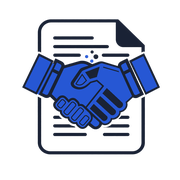
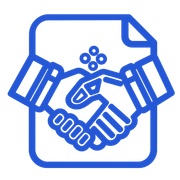
Refine cobalt robotic handshake mark

diff --git a/src/components/site-header.tsx b/src/components/site-header.tsx
@@ -30,7 +30,7 @@ export function SiteHeader() {
         </nav>
       </div>
       <style jsx>{`
-        .site-header{height:72px;display:flex;align-items:center;border-bottom:1px solid rgba(223,228,236,.75);background:rgba(255,255,255,.92);backdrop-filter:blur(14px);position:sticky;top:0;z-index:20}.header-inner{display:flex;align-items:center;justify-content:space-between;min-width:0}nav{display:flex;align-items:center;gap:23px;min-width:0}nav :global(a:not(.button-primary)){color:#4b566b;text-decoration:none;font-size:14px;font-weight:600}nav :global(a:not(.button-primary):hover){color:var(--ink)}.user-menu{position:relative}.user-menu summary{min-height:44px;list-style:none;display:flex;align-items:center;gap:8px;cursor:pointer}.user-menu summary::-webkit-details-marker{display:none}.user-menu summary>span{width:36px;height:36px;display:grid;place-items:center;color:#fff;background:#53627d;border-radius:50%;font-size:13px;font-weight:750}.user-menu summary div{max-width:150px;display:grid;line-height:1.2}.user-menu summary b{color:#394459;font-size:13px}.user-menu summary small{overflow:hidden;color:#6f798c;font-size:11px;text-overflow:ellipsis}.menu-popover{width:240px;position:absolute;right:0;top:49px;padding:7px;display:grid;border:1px solid #dbe1e9;border-radius:10px;background:#fff;box-shadow:var(--shadow-md)}.menu-popover :global(a),.menu-popover button{min-height:44px;padding:9px 10px;display:flex;align-items:center;gap:8px;border:0;border-radius:6px;color:#4d596e;background:transparent;text-decoration:none;font-size:13px;font-weight:650;cursor:pointer}.menu-popover :global(a:hover),.menu-popover button:hover{background:#f4f6f9;color:var(--ink)}.menu-popover form{border-top:1px solid #edf0f4;margin-top:4px;padding-top:4px}.menu-popover button{width:100%}@media(max-width:760px){nav :global(a:not(.button-primary)){display:none}nav{gap:9px}nav :global(.button-primary){display:none}.user-menu summary div{display:none}}
+        .site-header{height:120px;display:flex;align-items:center;border-bottom:1px solid rgba(223,228,236,.75);background:rgba(255,255,255,.92);backdrop-filter:blur(14px);position:sticky;top:0;z-index:20}.header-inner{display:flex;align-items:center;justify-content:space-between;min-width:0}.brand{align-items:center}nav{display:flex;align-items:center;gap:23px;min-width:0}nav :global(a:not(.button-primary)){color:#4b566b;text-decoration:none;font-size:14px;font-weight:600}nav :global(a:not(.button-primary):hover){color:var(--ink)}.user-menu{position:relative}.user-menu summary{min-height:44px;list-style:none;display:flex;align-items:center;gap:8px;cursor:pointer}.user-menu summary::-webkit-details-marker{display:none}.user-menu summary>span{width:36px;height:36px;display:grid;place-items:center;color:#fff;background:#53627d;border-radius:50%;font-size:13px;font-weight:750}.user-menu summary div{max-width:150px;display:grid;line-height:1.2}.user-menu summary b{color:#394459;font-size:13px}.user-menu summary small{overflow:hidden;color:#6f798c;font-size:11px;text-overflow:ellipsis}.menu-popover{width:240px;position:absolute;right:0;top:49px;padding:7px;display:grid;border:1px solid #dbe1e9;border-radius:10px;background:#fff;box-shadow:var(--shadow-md)}.menu-popover :global(a),.menu-popover button{min-height:44px;padding:9px 10px;display:flex;align-items:center;gap:8px;border:0;border-radius:6px;color:#4d596e;background:transparent;text-decoration:none;font-size:13px;font-weight:650;cursor:pointer}.menu-popover :global(a:hover),.menu-popover button:hover{background:#f4f6f9;color:var(--ink)}.menu-popover form{border-top:1px solid #edf0f4;margin-top:4px;padding-top:4px}.menu-popover button{width:100%}@media(max-width:760px){.site-header{height:88px}nav :global(a:not(.button-primary)){display:none}nav{gap:9px}nav :global(.button-primary){display:none}.user-menu summary div{display:none}}
       `}</style>
     </header>
   );

diff --git a/src/components/brand.tsx b/src/components/brand.tsx
@@ -6,14 +6,14 @@ import Link from "next/link";
 export function Brand({ compact = false }: { compact?: boolean }) {
   return (
     <Link href="/" className="brand" aria-label="Handshake AI home">
-      <Image className="brand-mark" src="/handshake-mark-two-color.png" width={48} height={48} alt="" priority />
+      <Image className="brand-mark" src="/handshake-mark-cobalt-outline-cluster.png" width={104} height={104} alt="" priority />
       {!compact && <span className="brand-wordmark" aria-label="Handshake AI"><span>handshake</span><span>AI</span></span>}
       <style jsx>{`
-        :global(.brand-mark) { width: 48px; height: 48px; object-fit: contain; }
+        :global(.brand-mark) { width: 104px; height: 104px; object-fit: contain; }
         @font-face { font-family: HandshakeGeist; src: url('/fonts/handshake-geist.woff2') format('woff2'); font-style: normal; font-weight: 100 900; font-display: swap; }
-        :global(.brand-wordmark) { display: inline-flex; align-items: baseline; gap: 5px; font-family: HandshakeGeist, ui-sans-serif, sans-serif; font-size: 21px; font-weight: 560; letter-spacing: -.055em; line-height: 1; text-transform: lowercase; }
+        :global(.brand-wordmark) { display: inline-flex; align-items: baseline; gap: 6px; font-family: HandshakeGeist, ui-sans-serif, sans-serif; font-size: 28px; font-weight: 560; letter-spacing: -.055em; line-height: 1; text-transform: lowercase; }
         :global(.brand-wordmark span:last-child) { color: var(--blue); font-size: .88em; font-weight: 700; letter-spacing: -.07em; text-transform: uppercase; }
-        @media (max-width: 390px) { :global(.brand-wordmark) { font-size: 20px; gap: 4px; } }
+        @media (max-width: 390px) { :global(.brand-mark) { width: 72px; height: 72px; } :global(.brand-wordmark) { font-size: 22px; gap: 4px; } }
       `}</style>
     </Link>
   );

diff --git a/app/home.css b/app/home.css
@@ -1,4 +1,4 @@
-.home-page .hero { min-height: 690px; display: grid; grid-template-columns: .96fr 1.04fr; gap: 64px; align-items: center; padding-top: 32px; padding-bottom: 64px; }
+.home-page .hero { min-height: 690px; display: grid; grid-template-columns: .96fr 1.04fr; gap: 64px; align-items: center; padding-top: 72px; padding-bottom: 64px; }
 .home-page .hero-copy { padding-bottom: 18px; }
 .home-page .hero-copy, .home-page .scene { min-width: 0; }
 .home-page .agent-badge { width: fit-content; display: flex; align-items: center; gap: 7px; margin-bottom: 24px; padding: 7px 10px; color: var(--blue); background: var(--blue-soft); border: 1px solid #dce6ff; border-radius: 999px; font-size: 12px; font-weight: 700; }
